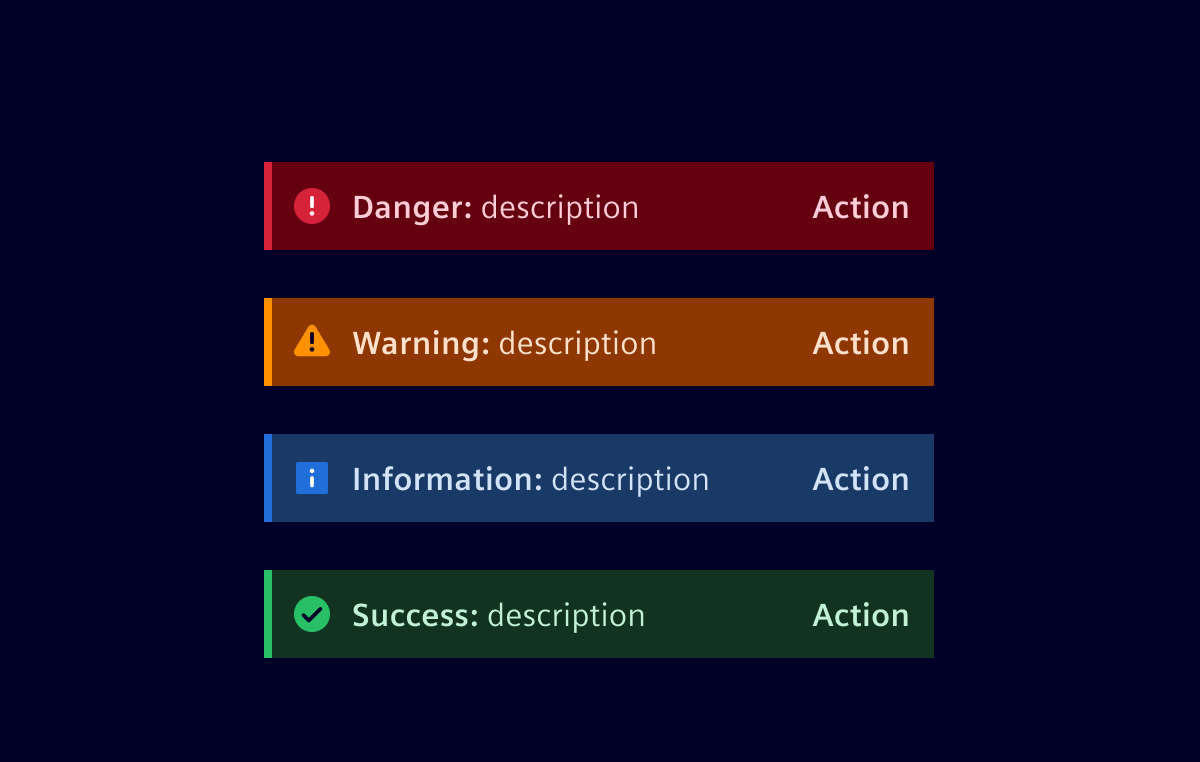
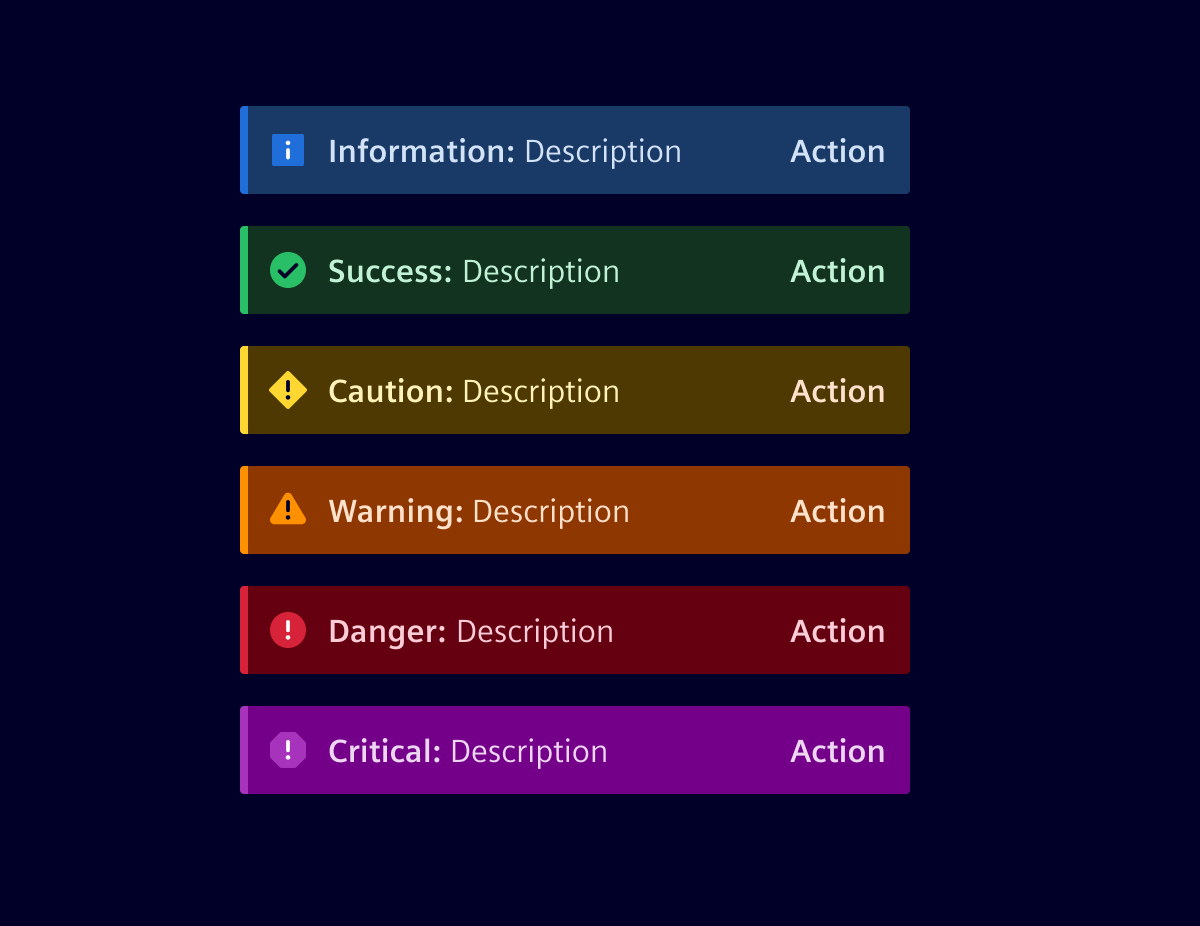
docs(status-notifications): updated images and added caution and critical version

diff --git a/docs/components/status-notifications/inline-notification.md b/docs/components/status-notifications/inline-notification.md
@@ -6,7 +6,7 @@ nature and vanish after the issue is resolved by user.
 
 ## Usage ---
 
-![Inline Notification](images/inline-notification.png)
+![Inline notification](images/inline-notification.png)
 
 ### When to use
 
@@ -28,7 +28,7 @@ The notification width varies based on the context and page layout. Their height
 is based on the content length, which should not exceed two lines of text. Some
 examples of layouts are form, right pane, banner etc.
 
-![Inline Notification Formatting](images/inline-notification-formatting.png)
+![Inline notification formatting](images/inline-notification-formatting.png)
 
 ### Where Inline Notifications may not help
 
@@ -36,7 +36,7 @@ These are not recommended to use for providing severe level feedbacks.
 
 ## Design ---
 
-![Inline Notification Specification](images/inline-notification-usage-construction.png)
+![Inline notification specification](images/inline-notification-usage-construction.png)
 
 1. **Icon:** Informs users about the severity of a notification.
 2. **Title:** Gives users a quick overview of the notification (*optional*).
@@ -49,20 +49,20 @@ A user should be able to quickly understand the notification and know what to do
 
 ### Action Button
 
-![Inline Notification Actions](images/inline-notification-usage-actions.png)
+![Inline notification actions](images/inline-notification-usage-actions.png)
 
 1. **No action:** Information only.
 2. **Action:** Provides an action button.
 
 ### Notification Types
 
-![Inline Notification Variations](images/inline-notification-usage-variations.png)
+![Inline notification variations](images/inline-notification-usage-variations.png)
 
 ## Code ---
 
 This component is used to bring attention of users to a result of some action.
-There are multiple options of what is the notification level: `danger`,
-`warning`, `information` and `success`.
+There are multiple options of what is the notification level: `information`,
+`success`, `caution`, `warning`, `danger` and `critical`.
 
 ### Usage
 
